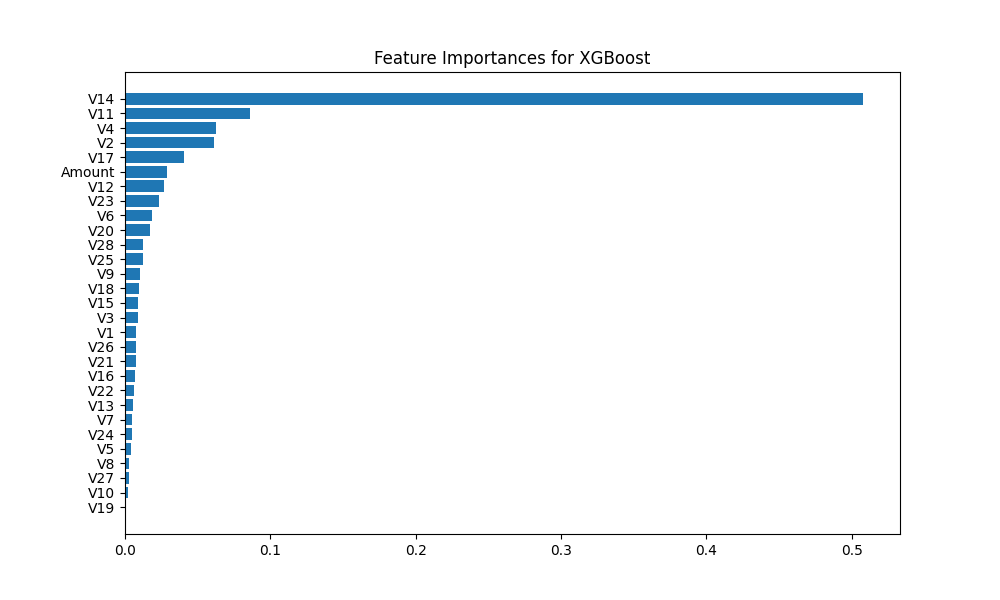
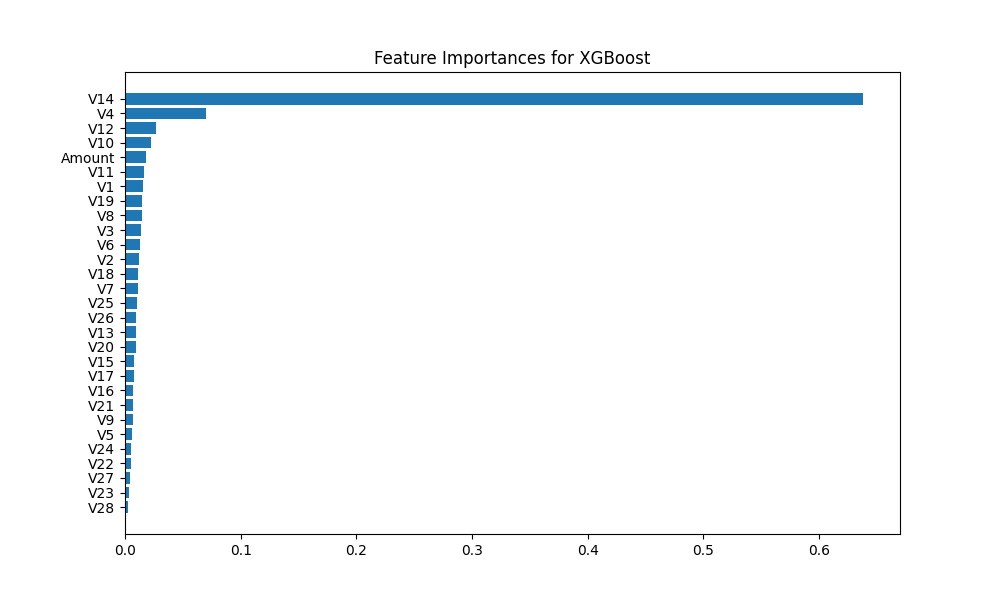
Parameters for xgboost

diff --git a/classifiers/hypertuning.py b/classifiers/hypertuning.py
@@ -1,19 +1,18 @@
-from sklearn.model_selection import RandomizedSearchCV
-from imblearn.pipeline import Pipeline as ImbPipeline
-from sklearn.metrics import make_scorer, f1_score
-from classifiers.utils import calculate_n_iter, get_stratified_kfold
-from classifiers.classifier_init import all_classifiers
-from preprocessing import all_scalers, sampler_classes
-from utils.logger import log_memory_usage, setup_logger
-import time
-
-# Set up logger
-logger = setup_logger(__name__)
-
-# Create a scorer object
-f1_scorer = make_scorer(f1_score, average='binary')
-
 def hyperparameter_tuning(X_train, y_train, config, logger):
+    from sklearn.model_selection import RandomizedSearchCV
+    from imblearn.pipeline import Pipeline as ImbPipeline
+    from sklearn.metrics import make_scorer, f1_score
+    from classifiers.utils import calculate_n_iter, get_stratified_kfold
+    from classifiers.classifier_init import all_classifiers
+    from preprocessing import all_scalers, sampler_classes
+    from utils.logger import log_memory_usage, setup_logger
+    import time
+    # Set up logger
+    logger = setup_logger(__name__)
+
+    # Create a scorer object
+    f1_scorer = make_scorer(f1_score, average='binary')
+
     """
     Performs hyperparameter tuning for the specified classifiers using RandomizedSearchCV.
 

diff --git a/preprocessing/preprocess.py b/preprocessing/preprocess.py
@@ -65,7 +65,7 @@ def preprocess_data(df, config, random_state=25):
         y = df['Class']
         logger.info(f"Separated features and target. X shape: {X.shape}, y shape: {y.shape}")
 
-        X_train, X_test, y_train, y_test = train_test_split(X, y, test_size=0.9, random_state=random_state, stratify=y)
+        X_train, X_test, y_train, y_test = train_test_split(X, y, test_size=0.3, random_state=random_state, stratify=y)
         logger.info(f"Data split into train and test sets. X_train shape: {X_train.shape}, X_test shape: {X_test.shape}, y_train shape: {y_train.shape}, y_test shape: {y_test.shape}")
         logger.info(f"Class distribution before resampling: {y_train.value_counts().to_dict()}")
         # Resampling (if specified in the config)

diff --git a/classifiers/utils.py b/classifiers/utils.py
@@ -149,5 +149,5 @@ def calculate_n_iter(param_distributions, max_iter=100):
         total_combinations *= len(values)
     
     # Set n_iter as a fraction of the total combinations, up to a maximum limit
-    dynamic_n_iter = min(max_iter, int(total_combinations * 0.95))  # 95% of the total combinations, capped at max_iter
+    dynamic_n_iter = min(max_iter, int(total_combinations * 0.9))  # 95% of the total combinations, capped at max_iter
     return dynamic_n_iter

diff --git a/classifiers/classifier_init.py b/classifiers/classifier_init.py
@@ -6,7 +6,7 @@ from sklearn.neighbors import KNeighborsClassifier
 
 all_classifiers = {
     'Random Forest': RandomForestClassifier(),
-    'XGBoost': XGBClassifier(n_estimators=174,learning_rate=0.12),
+    'XGBoost': XGBClassifier(), #n_estimators=174,learning_rate=0.12,max_depth=9,min_child_weight=9,subsample=0.9,gamma=0.3,colsample_bytree=0.3
     'MLP': MLPClassifier(),
     'KNN': KNeighborsClassifier(),
     'SVM': SVC(probability=True)
